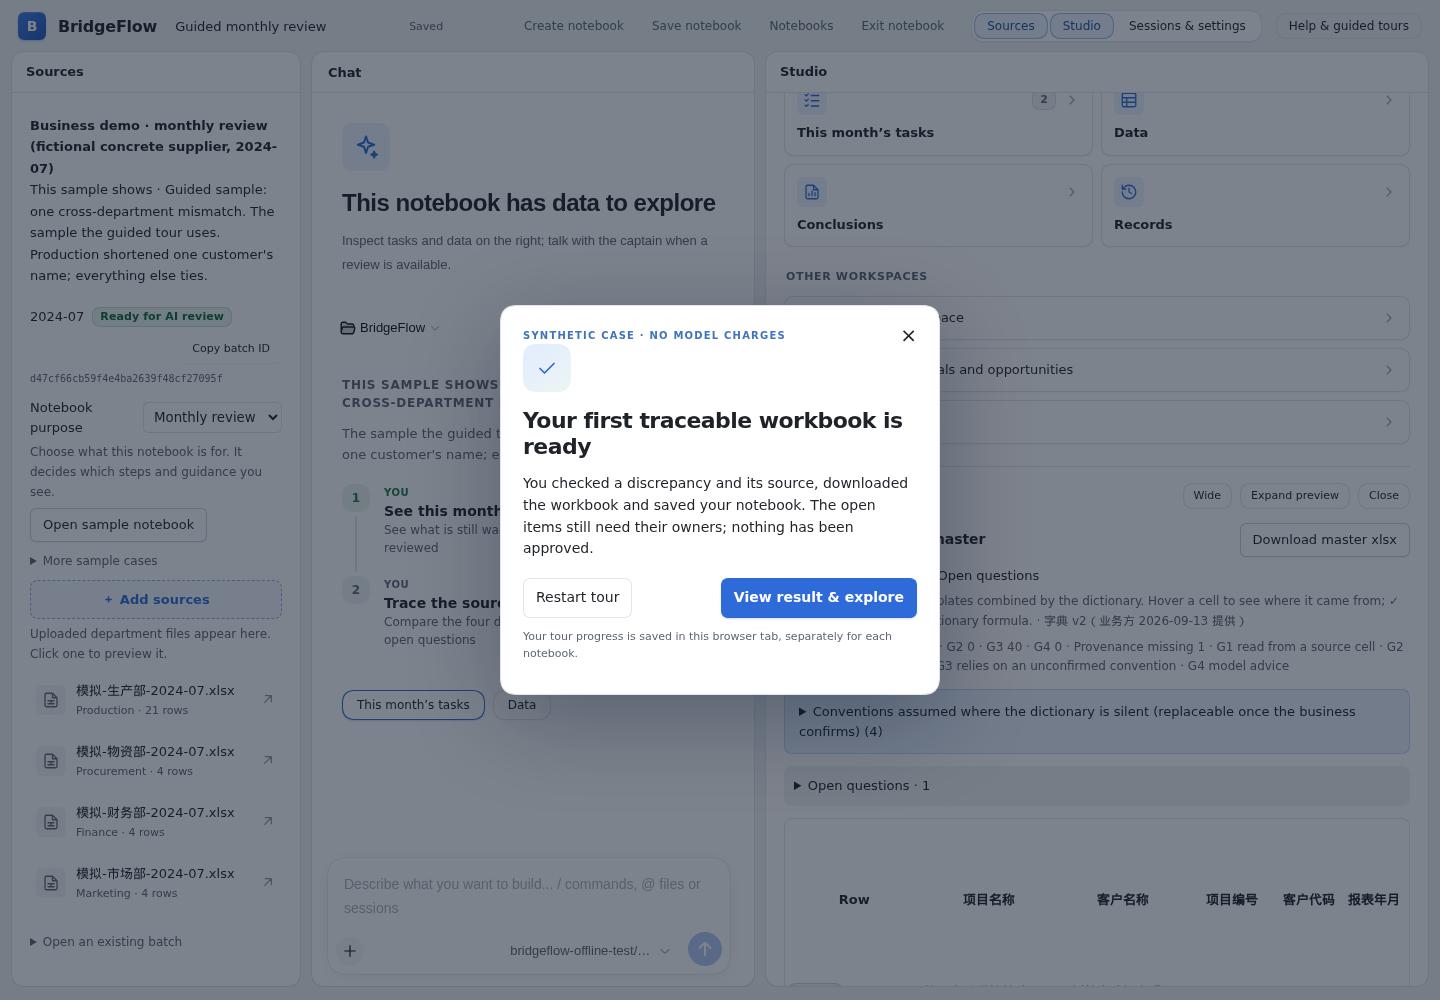
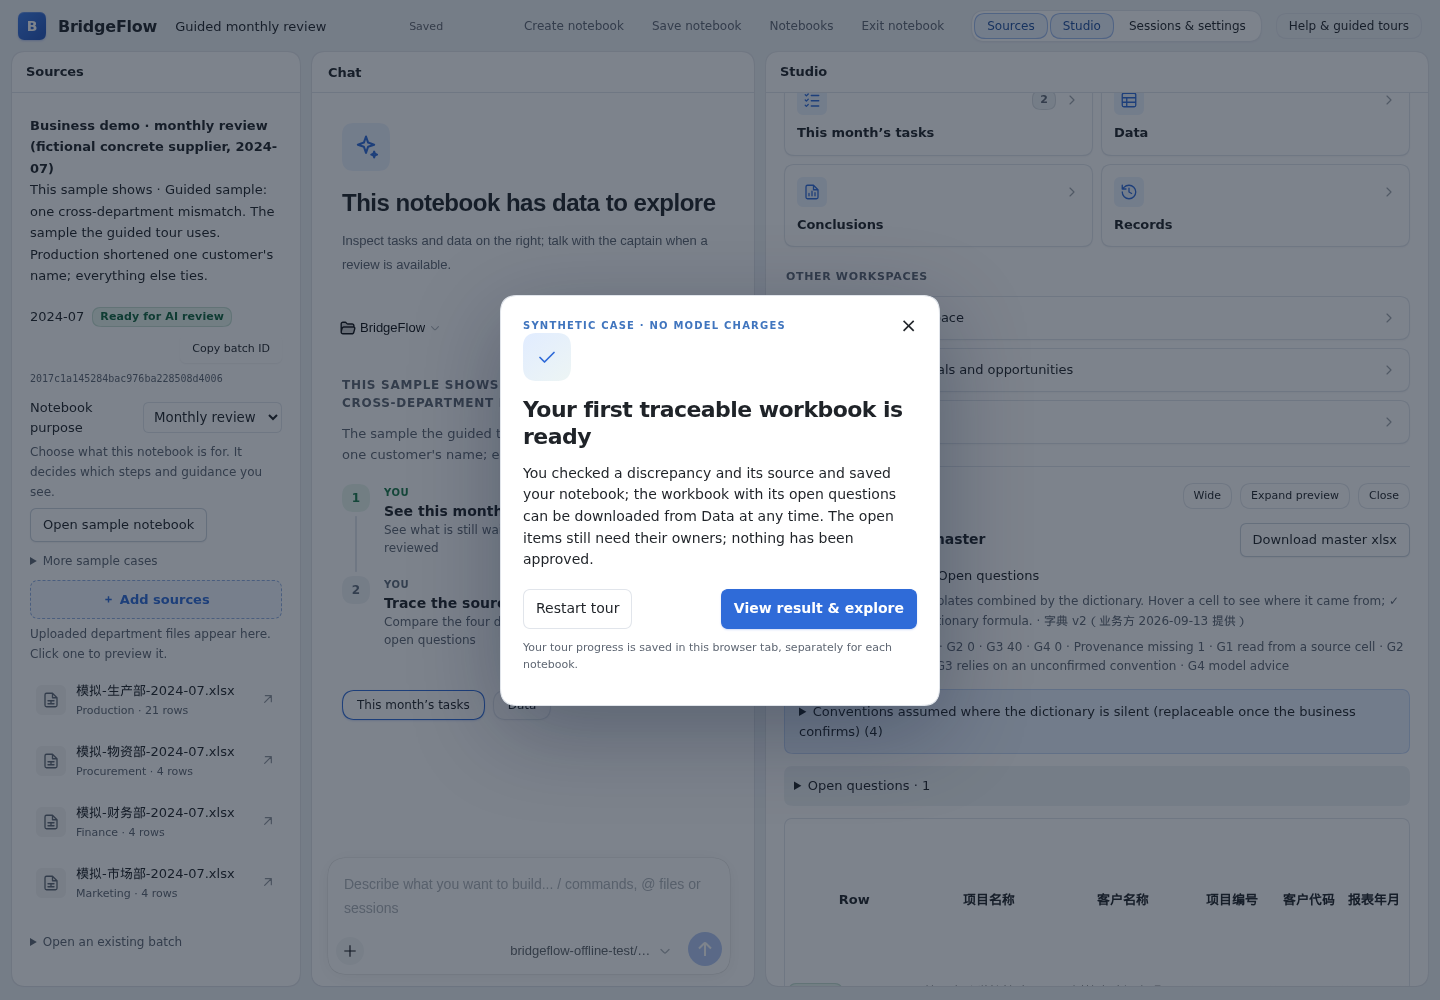
Tour: downloading the workbook and renaming the notebook are optional
The core tour blocked Next until the workbook download started and the notebook was
renamed. Neither is needed to finish the task: both steps still advance on their
own when done, but Next is open, the completion check waits only for the steps
that matter, and the copy says the steps are optional.

Claude-Session: https://claude.ai/code/session_013WezsZhBXNNTpXPTW1RPMD

Changed region(s): [[0.3438, 0.403, 0.6562, 0.713], [0.3438, 0.279, 0.6562, 0.372]]

diff --git a/plugins/src/client/tour/copy.ts b/plugins/src/client/tour/copy.ts
@@ -2,7 +2,7 @@
 export const tourLabels: Record<string, [string, string]> = {
   tourHelp: ['帮助与引导', 'Help & guided tours'], tourWelcome: ['把四个部门各自的表，合成一张对得上的表', 'Turn four departments’ spreadsheets into one table that adds up'],
   tourWelcomeBody: ['一家虚构的混凝土公司，生产、采购、财务、市场各记各的表。跟着走一遍：把四张表合在一起、看哪里对不上、点一个数字找到它在原表的哪一行。不用准备文件，也不花模型的钱。', 'A fictional concrete supplier: production, procurement, finance and marketing each keep their own spreadsheet. Walk through combining them, see where they disagree, and click a number to find the row it came from. No files to prepare, no AI charges.'],
-  tourWelcomeResult: ['最后你会下载一份带待确认项的总表，并保存一个可以重开的笔记本。', 'Leave with a downloaded workbook and a saved notebook you can reopen. Open questions stay visible.'],
+  tourWelcomeResult: ['最后你会保存一个可以重开的笔记本；带待确认项的总表可以顺手下载，不是必须。', 'Leave with a saved notebook you can reopen, and download the workbook if you like. Open questions stay visible.'],
   tourStart: ['开始引导', 'Start guided task'], tourLater: ['稍后再说', 'Maybe later'], tourResume: ['继续引导', 'Continue tour'], tourRestart: ['重新开始', 'Restart tour'],
   tourReset: ['重置本笔记本的引导', 'Reset this notebook’s tour'], tourResetHelp: ['只清除本标签页中的引导进度，不修改笔记本、文件或审批。', 'Clears tour progress in this tab only. Your notebooks, files and decisions are kept.'],
   tourStorage: ['进度仅保存在本浏览器标签页，并按原生笔记本区分。刷新可继续；其他标签页和其他笔记本不共用完成状态。', 'Your tour progress is saved in this browser tab, separately for each notebook.'],
@@ -10,12 +10,13 @@ export const tourLabels: Record<string, [string, string]> = {
   tourNext: ['下一步', 'Next'], tourBack: ['上一步', 'Back'], tourExit: ['退出引导', 'Exit tour'], tourMore: ['了解更多', 'Why this matters'],
   tourAction: ['现在请操作', 'YOUR NEXT ACTION'], tourExpected: ['完成后你会看到', 'WHAT TO EXPECT'], tourStep: ['步骤', 'Step'],
   tourWaitingAction: ['完成高亮操作后自动继续', 'Continues after the highlighted action succeeds'], tourDoneAction: ['此操作已完成；可回看说明后继续。', 'Already done. Review this explanation, then continue.'],
+  tourOptionalAction: ['这一步可选：做了会自动继续，不做直接点「下一步」。', 'Optional: doing it moves on by itself, or press Next to skip it.'],
   tourWaiting: ['正在等真实界面就绪', 'Waiting for the workspace'], tourWaitingBody: ['目标可能正在加载或被弹窗盖住。请完成当前弹窗中的选择；失败时关闭弹窗后重试。引导不会代你提交。', 'The control may still be loading, or a dialog is covering it. Finish or close the dialog, then try again. The tour never submits anything for you.'],
   tourMissing: ['这一步暂时不可用', 'This step is not available yet'], tourMissingBody: ['控件未出现、页面无数据或权限不足。检查页面提示，然后重试定位；也可以回到入口或退出，稍后继续。', 'The control didn’t appear, the page has no data, or you don’t have access. Check the message on the page and retry, or exit and come back later.'],
   tourError: ['操作未成功', 'The action did not succeed'], tourErrorHelp: ['请按页面提示修正后重试高亮操作；未成功前不会推进。若暂时无法恢复，可退出后继续。', 'Correct the issue and retry the highlighted action. The tour stays here until it succeeds. You can exit and continue later.'],
   tourRetry: ['重试定位', 'Retry locating'], tourEntry: ['回到本步页面', 'Open this step’s view'], tourSkipped: ['已暂时跳过，任务未记为完成。', 'Paused, not completed. Continue whenever you are ready.'],
   tourFinish: ['完成引导', 'Finish tour'], tourComplete: ['你的第一份可追溯总表已准备好', 'Your first traceable workbook is ready'],
-  tourCompleteBody: ['你已查看模拟案例的差异和来源、发起总表下载，并保存了笔记本。待确认项仍然需要负责人处理，这不是业务签发。', 'You checked a discrepancy and its source, downloaded the workbook and saved your notebook. The open items still need their owners; nothing has been approved.'],
+  tourCompleteBody: ['你已查看模拟案例的差异和来源，并保存了笔记本；带待确认项的总表随时可以在「数据」页下载。待确认项仍然需要负责人处理，这不是业务签发。', 'You checked a discrepancy and its source and saved your notebook; the workbook with its open questions can be downloaded from Data at any time. The open items still need their owners; nothing has been approved.'],
   tourExplore: ['查看结果，自由探索', 'View result & explore'], tourSupplementDone: ['补充引导已读完', 'You’ve explored this module'], tourSupplementBody: ['这里只介绍了真实入口与边界，未启动研判、签发报价或对外发送。', 'You saw the real entry points and their limits. Nothing was started, approved or sent.'],
   tourResumeCore: ['继续核心任务', 'Continue core task'],
   tourCore: ['首次任务 · 整合与追溯', 'First task · combine & verify'], tourReview: ['深入了解 · 四部门研判', 'Explore · department review'], tourQuotation: ['深入了解 · 报价工作区', 'Explore · quotation workspace'],
@@ -62,12 +63,12 @@ export const tourLabels: Record<string, [string, string]> = {
   tour_sourceDetails_expected: ['查看文件名和批次信息后，再继续导出。', 'Identify the retained file and batch before exporting.'],
   tour_download_title: ['把结果带走，连同待确认项', 'Download the result with its caveats'],
   tour_download_body: ['下载的表格里除了合并结果，还有待确认项和计算时用到的假设，方便交给负责人核对。', 'The downloaded workbook holds the combined table, the open questions and the assumptions behind the numbers, ready for the owners to check.'],
-  tour_download_action: ['点击「下载总表 xlsx」，并检查浏览器的下载列表。', 'Click Download master xlsx and check your browser’s downloads.'],
-  tour_download_expected: ['工作簿生成并发起下载后才继续。浏览器是否最终保存文件需你确认。', 'The tour continues once the download starts. Check your browser for the file.'],
+  tour_download_action: ['可选：点击「下载总表 xlsx」，并检查浏览器的下载列表；不需要文件就直接点「下一步」。', 'Optional: click Download master xlsx and check your browser’s downloads, or press Next if you don’t need the file.'],
+  tour_download_expected: ['下载开始后引导会自动继续。浏览器是否最终保存文件需你确认。', 'If you download, the tour moves on once it starts. Check your browser for the file.'],
   tour_named_title: ['给这次工作起个好找的名字', 'Name this piece of work'],
   tour_named_body: ['清楚的名称让你和接手的人知道，这本笔记本记录了什么。', 'A clear name helps you and the next person recognise this notebook.'],
-  tour_named_action: ['在顶部名称框中输入一个新名称，然后移开焦点。', 'Enter a new name in the title field, then leave the field.'],
-  tour_named_expected: ['名称显示为未保存。下一步会明确保存，而不是假定自动保存。', 'The title shows as unsaved. You’ll save it in the next step.'],
+  tour_named_action: ['可选：在顶部名称框中输入一个新名称，然后移开焦点；沿用现有名称就直接点「下一步」。', 'Optional: enter a new name in the title field, then leave the field. To keep the current name, press Next.'],
+  tour_named_expected: ['改名后名称显示为未保存。下一步会明确保存，而不是假定自动保存。', 'After a rename the title shows as unsaved. You’ll save it in the next step.'],
   tour_saved_title: ['保存，方便下次回来', 'Save it for your next visit'],
   tour_saved_body: ['文件与计算结果已经保留；保存笔记本把名称和批次绑定，便于从笔记本列表重开。', 'Your files and results are already kept. Saving links this name to the batch so you can reopen it from Notebooks.'],
   tour_saved_action: ['点击顶部「保存」。', 'Click Save notebook in the top bar.'],

diff --git a/plugins/src/client/tour/state.ts b/plugins/src/client/tour/state.ts
@@ -1,4 +1,4 @@
-import { tours, TOUR_VERSION, required, trackEvents, type Track } from './steps.ts'
+import { tours, TOUR_VERSION, coreEvents, required, trackEvents, type Track } from './steps.ts'
 export type Progress = { version: number; status: 'notStarted' | 'inProgress' | 'skipped' | 'completed'; track: Track; index: number; done: string[]; batch?: string | undefined; source?: string | undefined }
 export const fresh = (): Progress => ({ version: TOUR_VERSION, status: 'notStarted', track: 'core', index: 0, done: [] })
 export function parseProgress(raw: string | null): Progress {
@@ -9,7 +9,7 @@ export function parseProgress(raw: string | null): Progress {
       || !Array.isArray(p.done) || p.done.some((x: unknown) => typeof x !== 'string') || p.batch && !/^[a-f0-9]{32}$/.test(p.batch)) return fresh()
     if (p.source !== undefined && !['production', 'procurement', 'finance', 'marketing'].includes(p.source)) return fresh()
     if (p.status === 'completed' && !canFinish(p)) return fresh()
-    return { ...(p.source ? { source: p.source } : {}), version: TOUR_VERSION, status: p.status, track: p.track, index: p.index, done: p.done.filter((x: string) => required.includes(x) || trackEvents.includes(x)), ...(p.batch ? { batch: p.batch } : {}) }
+    return { ...(p.source ? { source: p.source } : {}), version: TOUR_VERSION, status: p.status, track: p.track, index: p.index, done: p.done.filter((x: string) => coreEvents.includes(x) || trackEvents.includes(x)), ...(p.batch ? { batch: p.batch } : {}) }
   } catch { return fresh() }
 }
 export function canFinish(p: Progress) { return p.track !== 'core' || required.every(e => p.done.includes(e)) }
@@ -18,7 +18,7 @@ export function acceptEvent(p: Progress, event: string, batch: string): Progress
   // A supplementary track's events belong to no batch; the core task's are bound to its sample.
   if (trackEvents.includes(event)) return { ...p, done: [...new Set([...p.done, event])] }
   if (event !== 'sample' && p.batch !== batch) return p
-  if (!required.includes(event)) return p
+  if (!coreEvents.includes(event)) return p
   if (event === 'sample' && p.batch !== batch) return { ...p, batch, source: undefined, done: ['sample'] }
   return { ...p, done: [...new Set([...p.done, event])] }
 }
@@ -73,10 +73,10 @@ export function resetTour() {
   publish({ ...value, progress: fresh(), mode: 'welcome' }) }
 export function moveTour(delta: number) {
   const p = value.progress, steps = tours[p.track], step = steps[p.index]!
-  if (delta > 0 && step.event && !p.done.includes(step.event)) return
+  if (delta > 0 && step.event && !step.optional && !p.done.includes(step.event)) return
   if (p.index + delta >= steps.length) {
     if (!canFinish(p)) {
-      const index = steps.findIndex(s => s.event && !p.done.includes(s.event))
+      const index = steps.findIndex(s => s.event && !s.optional && !p.done.includes(s.event))
       publish({ ...value, progress: { ...p, index: Math.max(0, index) } }); return
     }
     publish({ ...value, progress: { ...p, status: 'completed' }, mode: 'complete' }); return

diff --git a/plugins/src/client/tour/steps.ts b/plugins/src/client/tour/steps.ts
@@ -1,5 +1,6 @@
 export type Track = 'core' | 'review' | 'quotation' | 'workflow'
-export type Step = { id: string; target: string; event?: string; pane?: 'sources' | 'studio'
+/** `optional`: the step still reacts to its action, but Next never waits for it. */
+export type Step = { id: string; target: string; event?: string; optional?: true; pane?: 'sources' | 'studio'
   view?: 'integration' | 'source' | 'quotation' | 'data' | 'tasks' | 'discovery' | 'handoff' | 'overview' }
 export const tours: Record<Track, Step[]> = {
   core: [
@@ -12,8 +13,8 @@ export const tours: Record<Track, Step[]> = {
     { id: 'source', target: 'evidence-source', event: 'source', pane: 'studio' },
     { id: 'sourceDetails', target: 'source-details', event: 'sourceDetails', pane: 'studio', view: 'source' },
     { id: 'sourceVerified', target: 'source-provenance', pane: 'studio', view: 'source' },
-    { id: 'download', target: 'master-download', event: 'download', pane: 'studio', view: 'integration' },
-    { id: 'named', target: 'notebook-name', event: 'named' },
+    { id: 'download', target: 'master-download', event: 'download', optional: true, pane: 'studio', view: 'integration' },
+    { id: 'named', target: 'notebook-name', event: 'named', optional: true },
     { id: 'saved', target: 'notebook-save', event: 'saved' },
   ],
   review: [
@@ -40,6 +41,8 @@ export const tours: Record<Track, Step[]> = {
   ],
 }
 export const TOUR_VERSION = 1
-export const required = tours.core.flatMap(s => s.event ? [s.event] : [])
+/** Every core event the tour records; `required` are the ones completion waits for. */
+export const coreEvents = tours.core.flatMap(s => s.event ? [s.event] : [])
+export const required = tours.core.flatMap(s => s.event && !s.optional ? [s.event] : [])
 /** Events a supplementary track waits for; they are not tied to a batch. */
 export const trackEvents = ['quotation', ...tours.workflow.flatMap(s => s.event ? [s.event] : [])]

diff --git a/plugins/src/client/tour/tour.tsx b/plugins/src/client/tour/tour.tsx
@@ -161,8 +161,8 @@ export function TourLayer({ surface = 'shell' }: { surface?: string }) {
         </>}
         {geo.error && <div className="bf-tour-task" role="alert"><b>{t('tourError')}</b>{geo.error}<p>{t('tourErrorHelp')}</p></div>}
         {['sample', 'result'].includes(step.id) && <details><summary>{t('tourMore')}</summary><p>{t(`tour_${step.id}_more`)}</p></details>}
-        {!intro && <p className="bf-tour-wait" role="status">{t(p.done.includes(step.event!) ? 'tourDoneAction' : 'tourWaitingAction')}</p>}
-        <div className="bf-tour-actions"><button disabled={p.index === 0} onClick={() => moveTour(-1)}>{t('tourBack')}</button><button onClick={exitTour}>{t('tourExit')}</button><button className="bf-tour-primary" disabled={wait || !intro && !p.done.includes(step.event!)} onClick={() => moveTour(1)}>{t(p.index === tours[p.track].length - 1 ? 'tourFinish' : 'tourNext')}</button></div>
+        {!intro && <p className="bf-tour-wait" role="status">{t(p.done.includes(step.event!) ? 'tourDoneAction' : step.optional ? 'tourOptionalAction' : 'tourWaitingAction')}</p>}
+        <div className="bf-tour-actions"><button disabled={p.index === 0} onClick={() => moveTour(-1)}>{t('tourBack')}</button><button onClick={exitTour}>{t('tourExit')}</button><button className="bf-tour-primary" disabled={wait || !intro && !step.optional && !p.done.includes(step.event!)} onClick={() => moveTour(1)}>{t(p.index === tours[p.track].length - 1 ? 'tourFinish' : 'tourNext')}</button></div>
       </> : <>
         <div className="bf-tour-mark" aria-hidden="true"><Icon name={complete ? 'check' : 'sparkle'} size={24} /></div>
         <h2>{t(complete ? p.track === 'core' ? 'tourComplete' : p.track === 'workflow' ? 'tourWorkflowDone' : 'tourSupplementDone' : welcome ? 'tourWelcome' : 'tourHelp')}</h2>

diff --git a/plugins/tests/tour.test.ts b/plugins/tests/tour.test.ts
@@ -1,7 +1,7 @@
 import test from 'node:test'
 import assert from 'node:assert/strict'
 import { acceptEvent, canFinish, fresh, parseProgress, observeTour, startTour, tourEvent, tourSnapshot, exitTour, resetTour } from '../src/client/tour/state.ts'
-import { required, tours } from '../src/client/tour/steps.ts'
+import { coreEvents, required, tours } from '../src/client/tour/steps.ts'
 import { placeCard } from '../src/client/tour/position.ts'
 
 test('corrupt, stale or forged completion never resumes as a successful task', () => {
@@ -47,4 +47,12 @@ test('cards fit desktop, narrow and visual viewport offsets without covering con
     assert(box.x+box.width<=vp.x+vp.width && box.y+box.height<=vp.y+vp.height)
     assert(box.x>=target.x+target.width || box.x+box.width<=target.x || box.y>=target.y+target.height || box.y+box.height<=target.y)
   }
+})
+test('download and rename are optional: completion never waits for them, but they are still recorded', () => {
+  assert.equal(required.includes('download'), false); assert.equal(required.includes('named'), false)
+  assert.equal(coreEvents.includes('download'), true)
+  let p = acceptEvent({...fresh(),status:'inProgress' as const}, 'sample', 'a'.repeat(32)) as ReturnType<typeof fresh>
+  for (const event of required.filter(x => x !== 'sample')) p = acceptEvent(p, event, 'a'.repeat(32)) as typeof p
+  assert.equal(canFinish(p), true)
+  assert.deepEqual(acceptEvent(p, 'download', 'a'.repeat(32)).done.includes('download'), true)
 })
